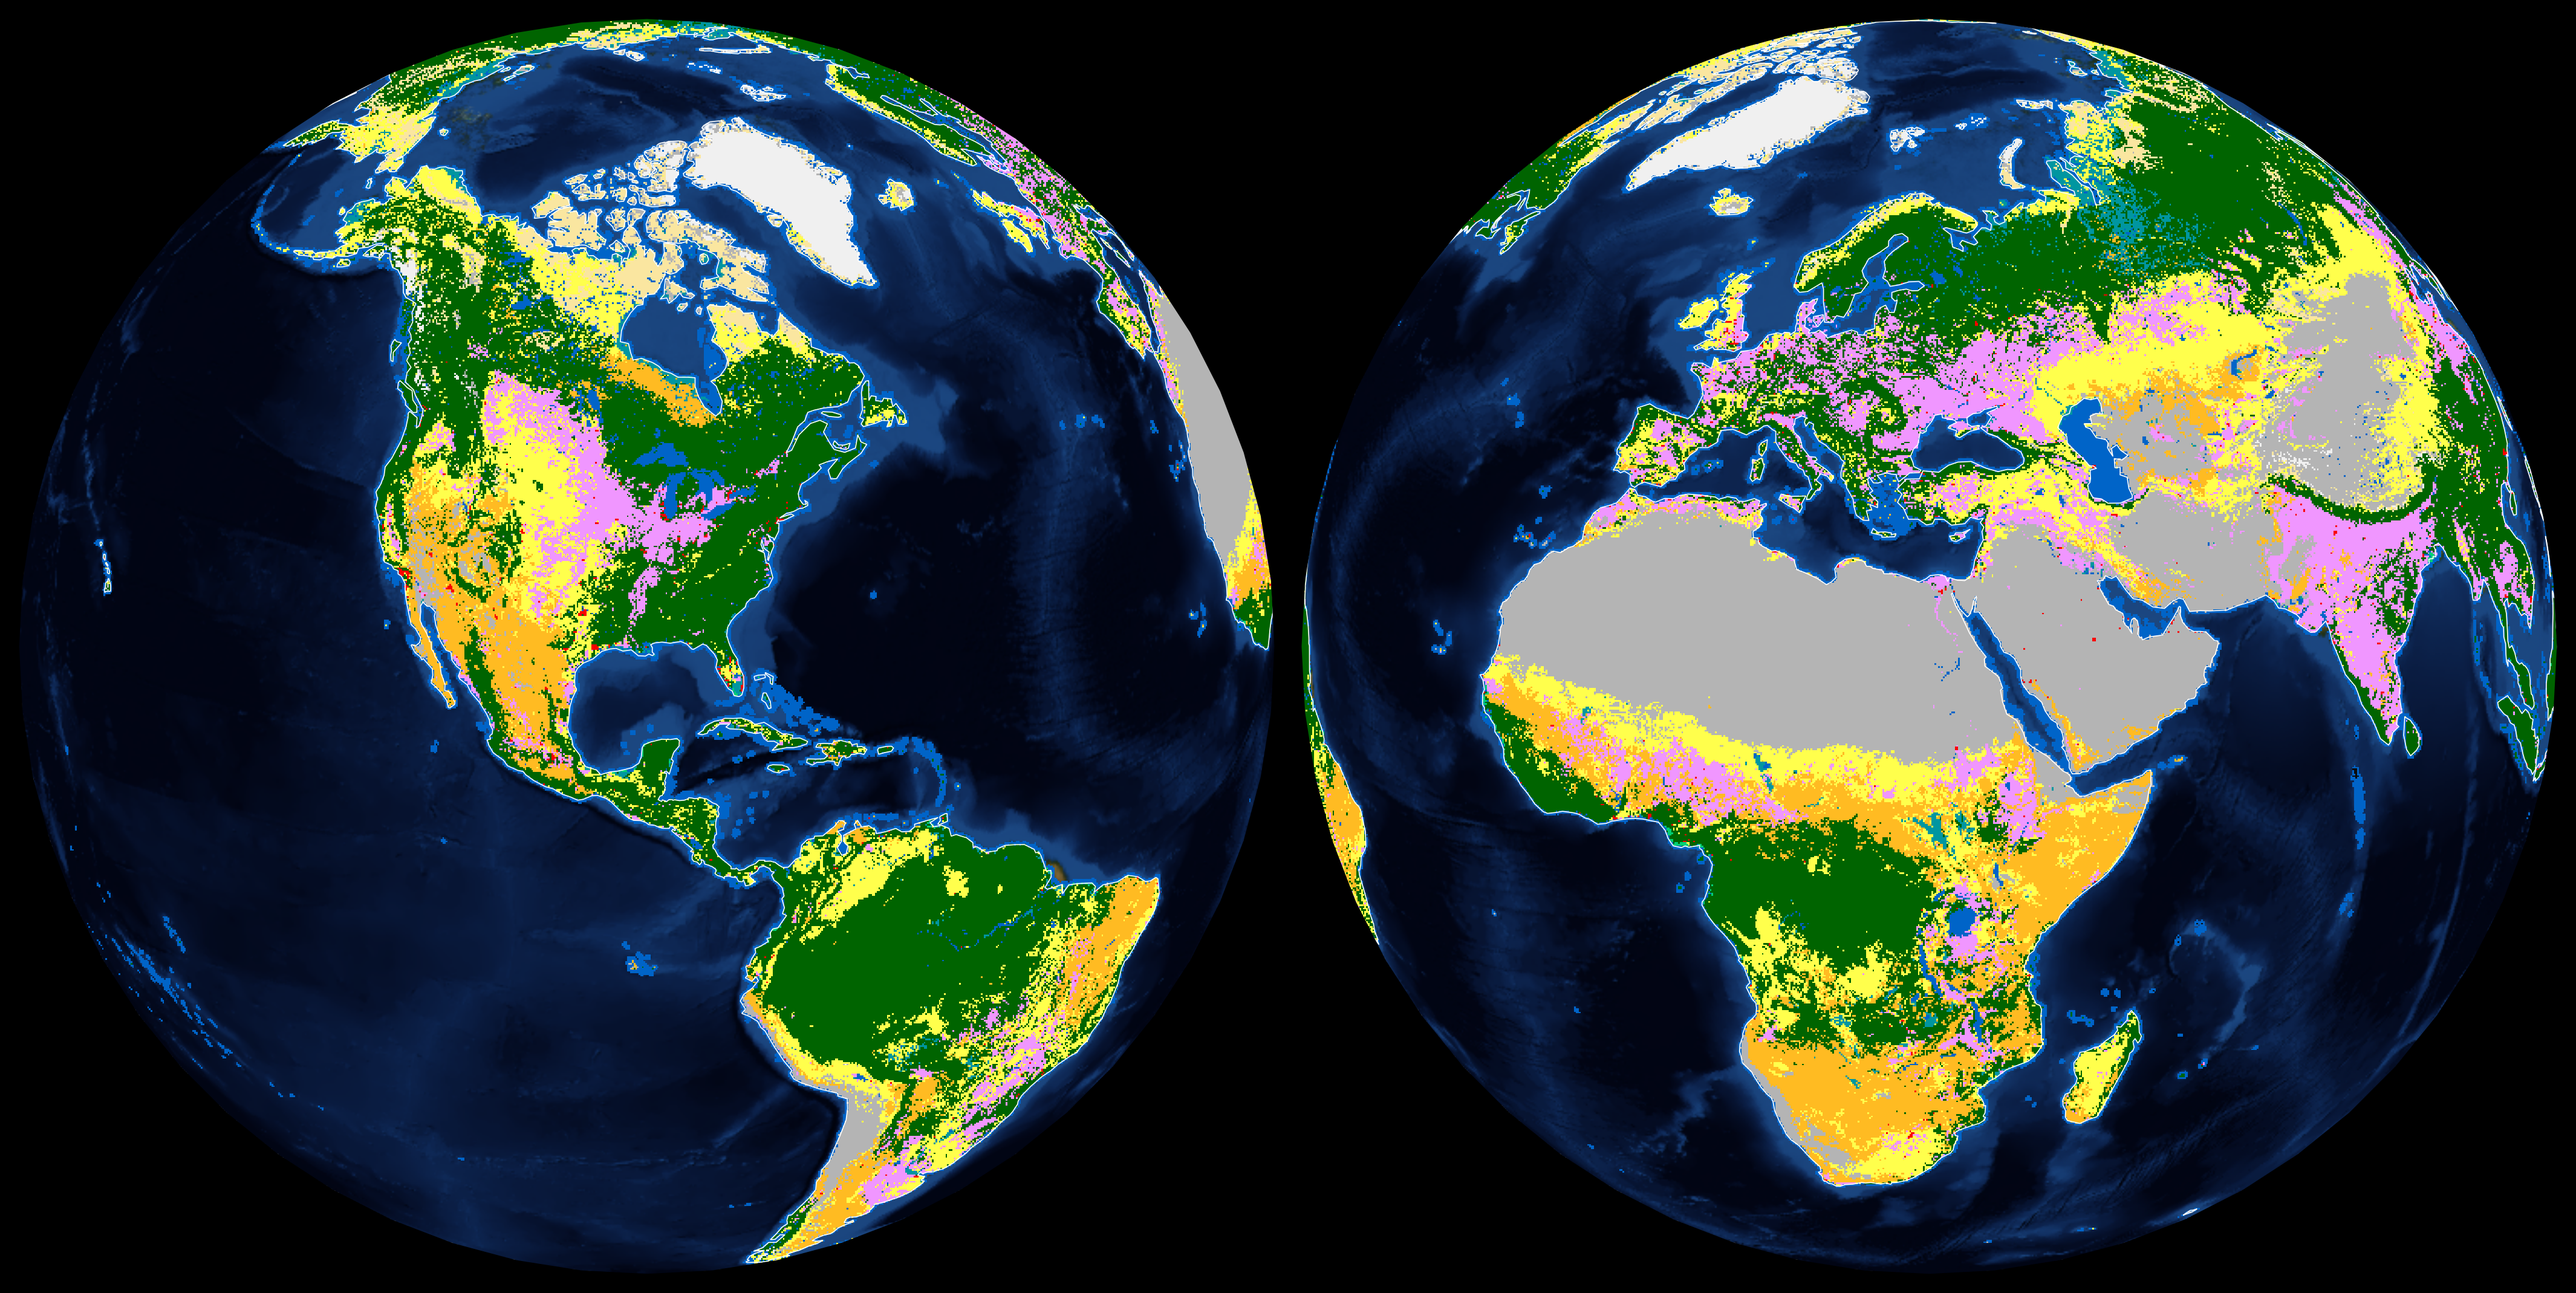
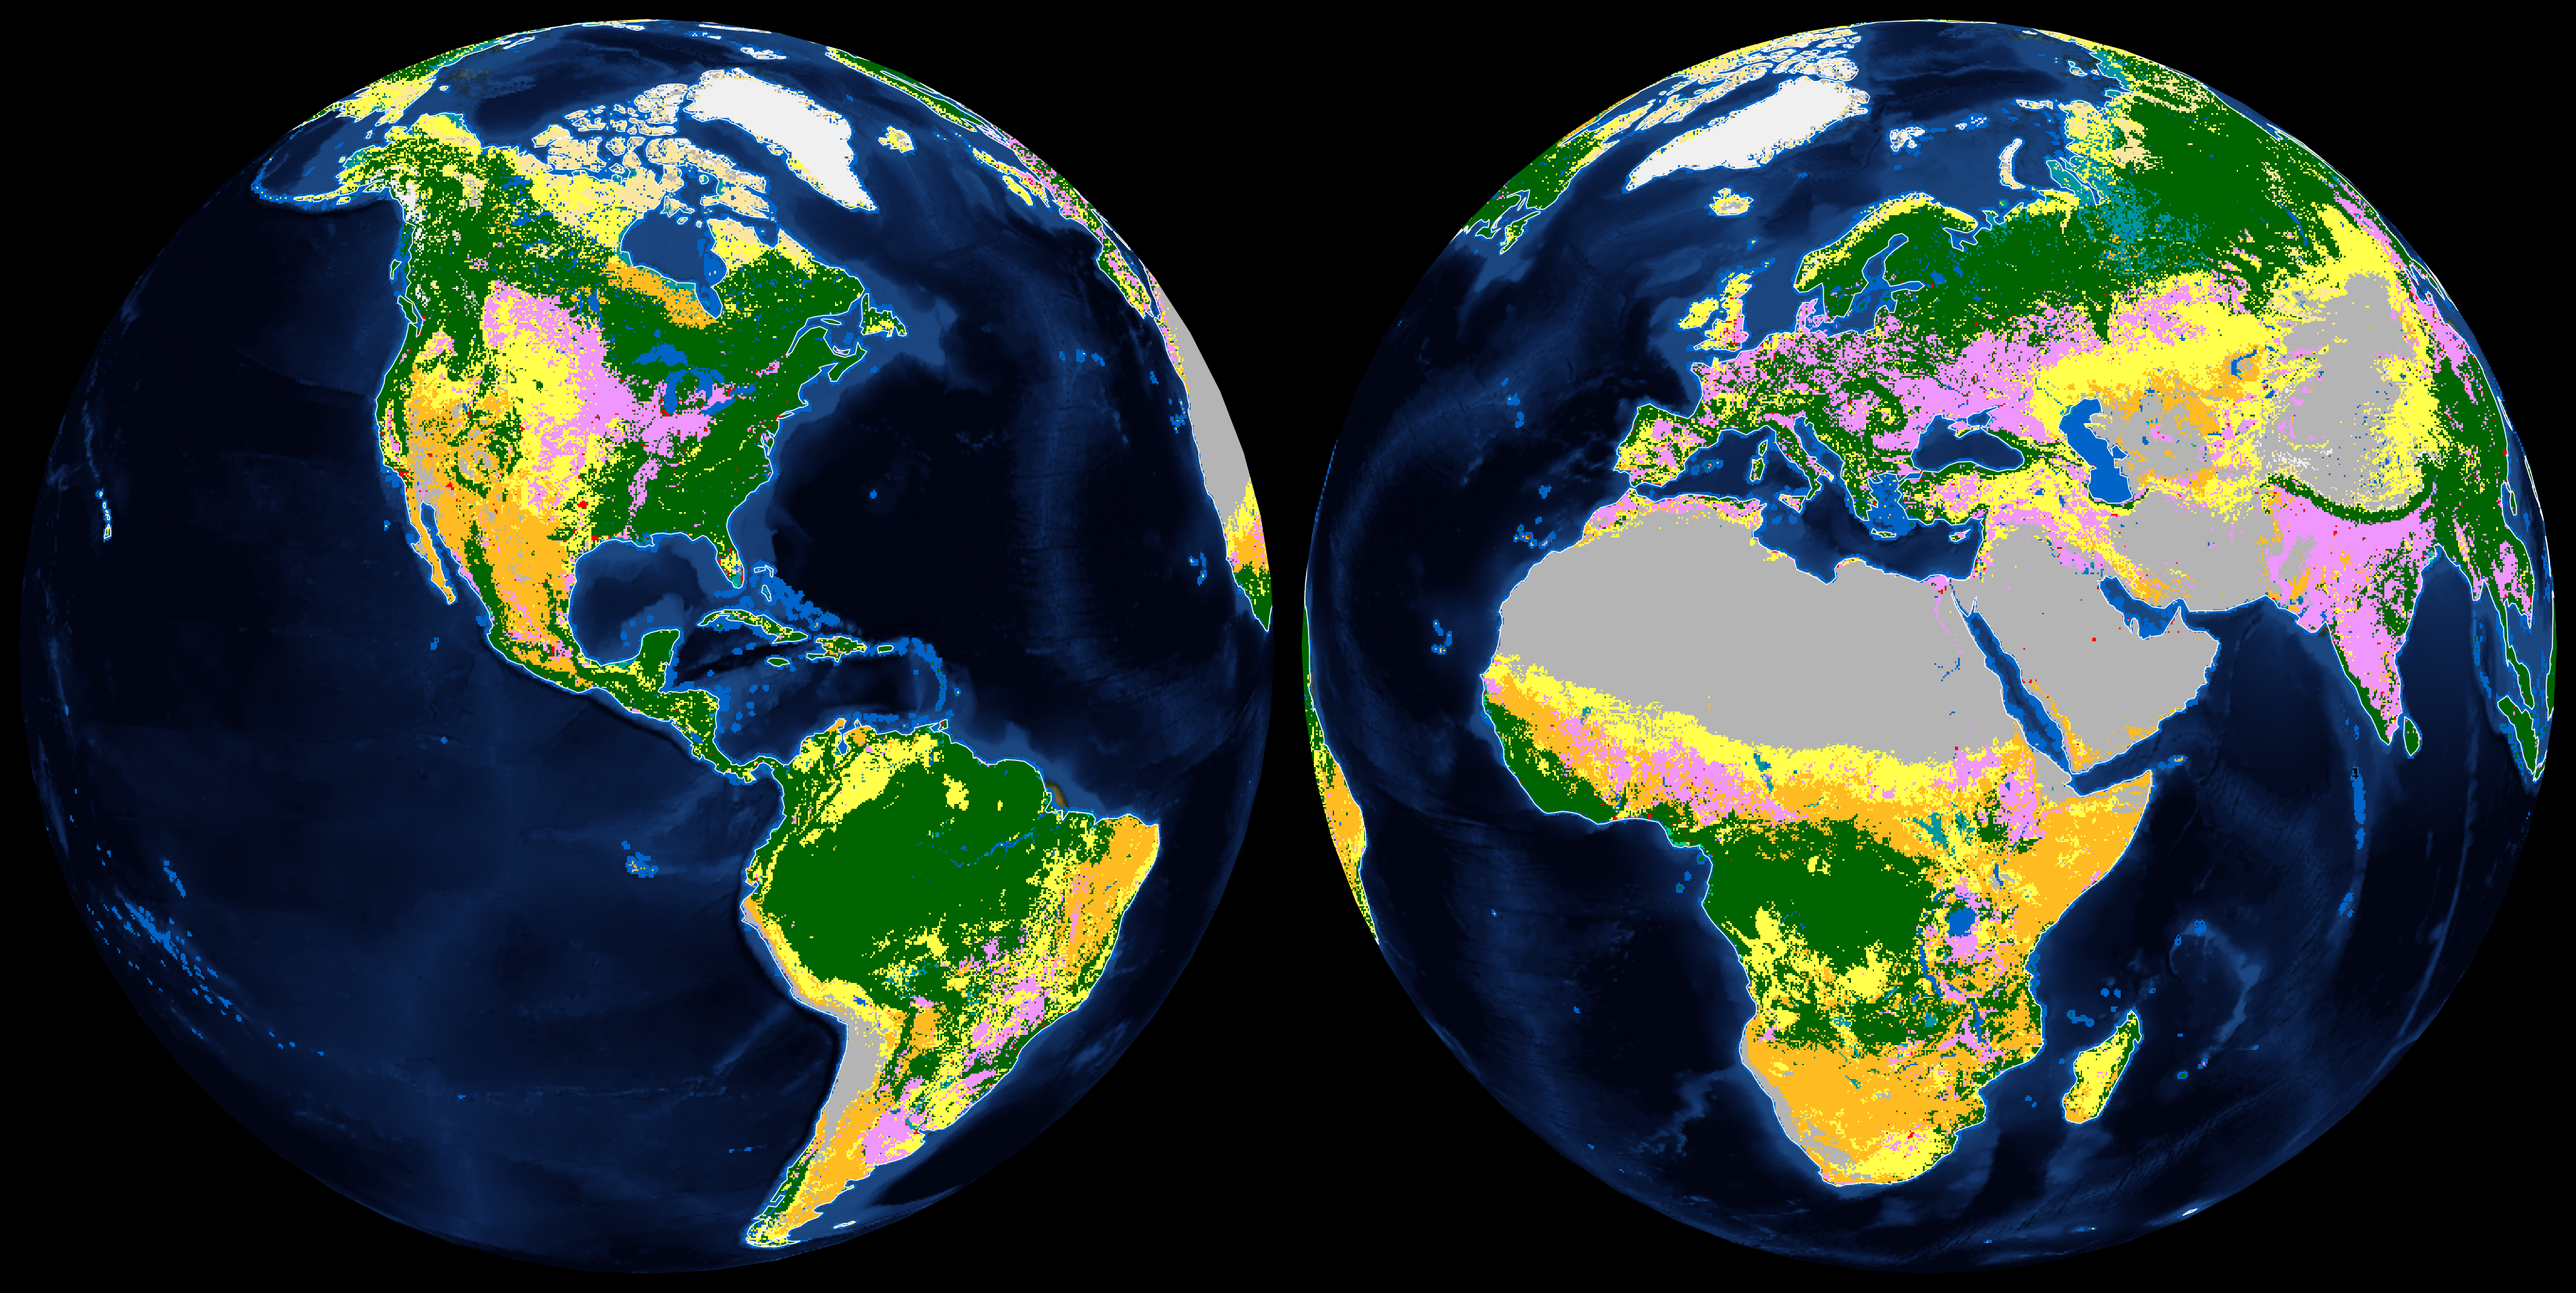
Adjust first globe latitude to 20° for both layouts
2-globe: (-90, 20), 3-globe: (-100, 20)

https://claude.ai/code/session_01Nrk7wMPNy1q5ZDnAwWYGD9

diff --git a/scripts/dual_globe.py b/scripts/dual_globe.py
@@ -89,9 +89,9 @@ N_GLOBES = 2
 # (central_longitude, central_latitude) for each globe panel.
 # 2-globe default: Western Hemisphere + Eastern Hemisphere, tilted north
 # to emphasise the vegetated / populated mid-latitudes.
-GLOBE_CENTERS: list[tuple[float, float]] = [(-90.0, 30.0), (30.0, 25.0)]
+GLOBE_CENTERS: list[tuple[float, float]] = [(-90.0, 20.0), (30.0, 25.0)]
 # 3-globe layout (set N_GLOBES = 3 to use):
-#   GLOBE_CENTERS = [(-100.0, 35.0), (20.0, 30.0), (110.0, 25.0)]
+#   GLOBE_CENTERS = [(-100.0, 20.0), (20.0, 30.0), (110.0, 25.0)]
 
 COASTLINE_COLOR = "white"   # set to "black" for light backgrounds
 COASTLINE_WIDTH = 0.4
